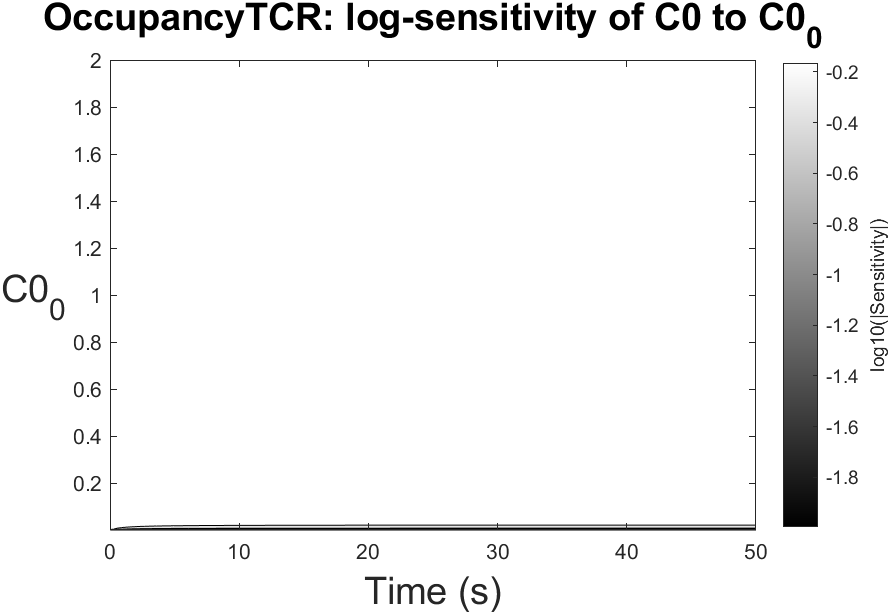
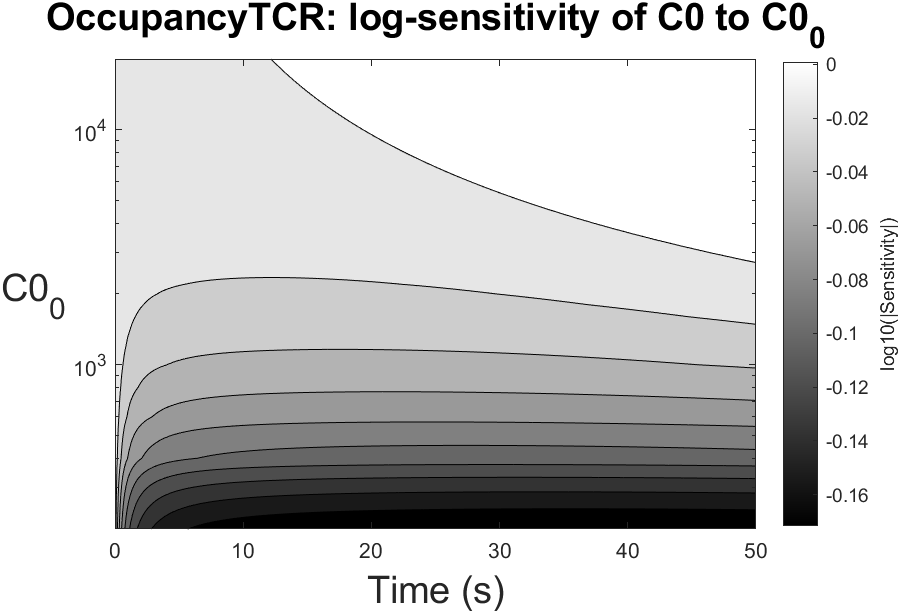
Refactor model options; add refiningModelOptions
Extracts and standardizes model/IC range configuration into new helper refiningModelOptions.m and updates OccupancyTCR_options.m to use structured settings (param_range_mode, IC_range_mode, min/max/step/npoints, spacing). Converts state/IC selection to name-based fields (state_to_analyze, IC_to_analyze) and resolves them to indices; computes tspan and builds param/IC ranges with validation (including log spacing checks). Updates run metadata and regenerated result images to reflect the changed initial-condition target (C0). This centralizes option handling and makes range modes (default_orders/minmax_npoints/custom_step) explicit and configurable.

diff --git a/v.6/models/OccupancyTCR_options.m b/v.6/models/OccupancyTCR_options.m
@@ -6,68 +6,48 @@
 model.param_values =[5e-5, 0.01];
 model.param_names = {'kon', 'koff'};
 
+% === STATE CONFIGURATION ===
+model.state_names = {'C0', 'L', 'R'};
+model.x0 = [0, 100, 2e4];
+
 % === STATE TO ANALYZE ===
-model.state_index = 1;
+model.state_to_analyze = 'C0';
 
 % === TIME CONFIGURATION ===
 model.step_size = 0.05;
 model.t_end     = 50;
-model.tspan     = 0.0:model.step_size:model.t_end;
 
-% === PARAMETER RANGE VALUES ===
-model.range_type = 3;
-% Choose one option:
-%   1 -> default range: 3 orders of magnitude below and 3 above the nominal parameter value.
-%   2 -> define [min, max] for each parameter and the number of points
-%   3 -> define [min, max] for each parameter and the step size within points
+% === PARAMETER RANGE SETTINGS ===
+% Available modes:
+%   'default_orders'  -> 3 orders of magnitude below and above nominal value
+%   'minmax_npoints'  -> define [min,max] and number of points
+%   'custom_step'     -> define [min,max] and step size
+model.param_range_mode = 'custom_step';
 
-if model.range_type == 1
-
-    % How many points you would like to compute within the default range
-    model.number_samples = 1000;
-
-elseif model.range_type == 2
-
-    model.number_samples = 1000;
-    model.param_ranges = [4e-6, 2e-2; 
-                          0.001, 1];
-
-elseif model.range_type == 3
-
-    model.param_ranges = {
-        4e-6:1e-6:2e-2; ...
-        0.001:0.001:1
-    };
-
-end                        
+% One value per parameter, in the same order as model.param_names.
+% 'default_orders' just use param_range_npoints.
+model.param_range_min    = [4e-6,  1e-3];
+model.param_range_max    = [2e-2,  1];
+model.param_range_step   = [1e-6,  1e-3]; % used only in 'custom_step'
+model.param_range_npoints = 1000;   % used only in 'default_orders' and 'minmax_npoints'
 
 % === INITIAL CONDITIONS RANGE VALUES ===
-opts.nStaIC = 3;                   % Which initial condition you want to analyse. '1' for the first one, '2' for the second one, and so on.
-model.x0 = [0, 100, 2e4];
-model.state_names = {'C0', 'L', 'R'};
-model.ICs_ranges = [0 2e4];
+opts.IC_to_analyze = 'C0';
+% Available modes:
+%   'default_factor'  -> 3 orders of magnitude below and above nominal value
+%   'minmax_npoints'  -> define [min,max] and number of points
+%   'custom_step'     -> define [min,max] and step size
+model.IC_range_mode = 'custom_step';
 
-model.range_typeICs = 3;
+model.IC_min      = 0;
+model.IC_max      = 2e4;
+model.IC_step     = 200;
+model.IC_npoints  = 1000;   % used only in 'default_factor' and 'minmax_npoints'
 
-if model.range_typeICs == 1
+% Spacing for 'minmax_npoints': 'linear' or 'log'
+model.IC_spacing = 'linear';
 
-    % How many points you would like to compute within the default range
-    model.number_samplesICs = 1000;
-
-elseif model.range_typeICs == 2
-
-    model.number_samplesICs = 1000;
-
-    model.param_rangesICs = logspace(model.ICs_ranges(1), log10(model.ICs_ranges(2)), model.number_samplesICs);
-
-    model.param_rangesICs = linspace(model.ICs_ranges(1), model.ICs_ranges(2), model.number_samplesICs);
-
-elseif model.range_typeICs == 3
-
-    model.param_rangesICs = (model.ICs_ranges(1):200:model.ICs_ranges(2));   
-    model.number_samplesICs = length(model.param_rangesICs);
-
-end   
+[model, opts] = refiningModelOptions(model, opts);
 
 % ==========================
 

diff --git a/v.6/src/refiningModelOptions.m b/v.6/src/refiningModelOptions.m
@@ -1,0 +1,79 @@
+function [model, opts] = refiningModelOptions(model, opts)
+
+    model.tspan     = 0.0:model.step_size:model.t_end;
+    
+    % CONVERT STATE NAME TO INDEX
+    model.state_index = find(strcmpi(model.state_to_analyze, model.state_names), 1);
+    
+    if isempty(model.state_index)
+        error('state_to_analyze must match one of model.state_names.');
+    end
+    
+    opts.nStaIC = find(strcmpi(opts.IC_to_analyze, model.state_names), 1);
+    
+    if isempty(opts.nStaIC)
+        error('IC_to_analyze must match one of model.state_names.');
+    end
+    
+    nParams = numel(model.param_values);
+    
+    switch lower(model.param_range_mode)
+    
+        case 'default_orders'
+    
+            model.range_type     = 1;
+            model.number_samples = model.param_range_npoints;
+    
+        case 'minmax_npoints'
+    
+            model.range_type     = 2;
+            model.number_samples = model.param_range_npoints;
+    
+            model.param_ranges = [model.param_range_min(:), model.param_range_max(:)];
+    
+        case 'custom_step'
+            model.range_type = 3;
+    
+            model.param_ranges = cell(nParams, 1);
+            for i = 1:nParams
+                model.param_ranges{i} = model.param_range_min(i):model.param_range_step(i):model.param_range_max(i);
+            end
+    
+        otherwise
+            error('Unknown param_range_mode. Use: default_orders, minmax_npoints or custom_step.');
+    end
+    
+    switch lower(model.IC_range_mode)
+    
+        case 'default_factor'
+    
+            model.range_typeICs     = 1;
+            model.number_samplesICs = model.IC_npoints;
+    
+        case 'minmax_npoints'
+            model.range_typeICs     = 2;
+            model.number_samplesICs = model.IC_npoints;
+    
+            if strcmpi(model.IC_spacing, 'log')
+                if model.IC_min <= 0 || model.IC_max <= 0
+                    error('Log spacing for ICs requires positive limits.');
+                end
+                model.param_rangesICs = logspace(log10(model.IC_min), log10(model.IC_max), model.number_samplesICs);
+            else
+                model.param_rangesICs = linspace(model.IC_min, model.IC_max, model.number_samplesICs);
+            end
+    
+            model.ICs_ranges = [model.IC_min, model.IC_max];
+    
+        case 'custom_step'
+            model.range_typeICs = 3;
+    
+            model.param_rangesICs   = model.IC_min:model.IC_step:model.IC_max;
+            model.number_samplesICs = numel(model.param_rangesICs);
+            model.ICs_ranges        = [model.IC_min, model.IC_max];
+    
+        otherwise
+            error('Unknown IC_range_mode. Use: default_factor, minmax_npoints or custom_step.');
+    end
+
+end
